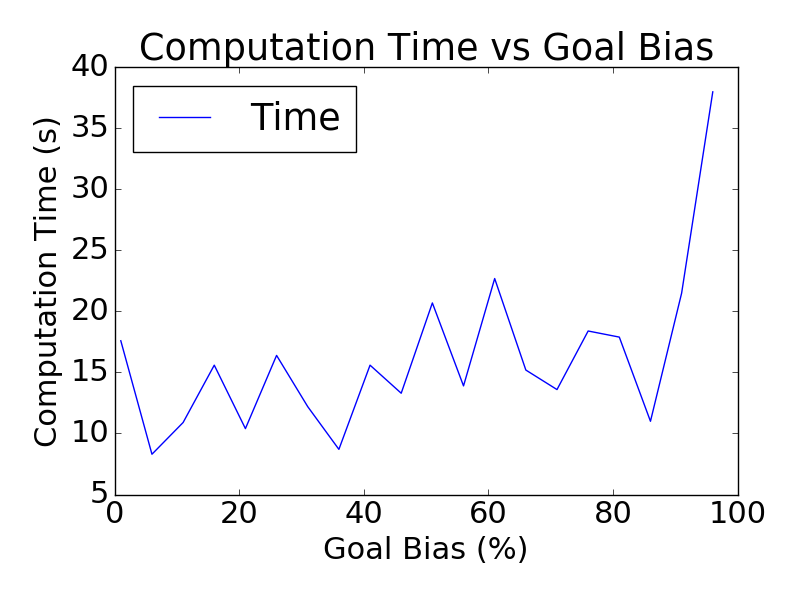
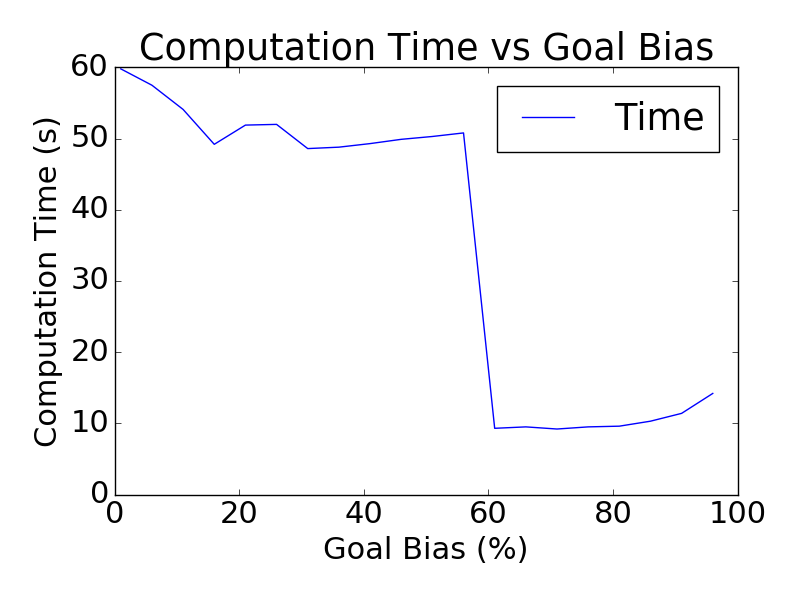
Added birrt template

diff --git a/homework/hw3/HW3.py b/homework/hw3/HW3.py
@@ -135,19 +135,19 @@ if __name__ == "__main__":
         ###############################
         # Test for various single test
         ###############################
-        RRTConnect.SendCommand('resettree')
-        RRTConnect.SendCommand('setgoalbias ' + str(GOAL_BIAS_VAL))
-        result = RRTConnect.SendCommand('run')
+        # RRTConnect.SendCommand('resettree')
+        # RRTConnect.SendCommand('setgoalbias ' + str(GOAL_BIAS_VAL))
+        # result = RRTConnect.SendCommand('run')
 
-        data    = [double(val) for val in result.split()]
-        times   = np.append(times, [[data[0]]], axis=0)
-        nodes   = np.append(nodes, [[data[1]]], axis=0)
-        samples = np.append(samples, [[data[2]]], axis=0)
-        goalBL  = np.append(goalBL, [[GOAL_BIAS_VAL]], axis=0)
-        pathL   = np.append(pathL, [[data[3]]], axis=0)
-        smooth  = np.append(smooth, [[smoothing]], axis=0)
-        smoothT = np.append(smoothT, [[data[4]]], axis=0)
-        nspathl = np.append(nspathl, [[data[5]]], axis=0)
+        # data    = [double(val) for val in result.split()]
+        # times   = np.append(times, [[data[0]]], axis=0)
+        # nodes   = np.append(nodes, [[data[1]]], axis=0)
+        # samples = np.append(samples, [[data[2]]], axis=0)
+        # goalBL  = np.append(goalBL, [[GOAL_BIAS_VAL]], axis=0)
+        # pathL   = np.append(pathL, [[data[3]]], axis=0)
+        # smooth  = np.append(smooth, [[smoothing]], axis=0)
+        # smoothT = np.append(smoothT, [[data[4]]], axis=0)
+        # nspathl = np.append(nspathl, [[data[5]]], axis=0)
 
 
         ###############################
@@ -169,54 +169,54 @@ if __name__ == "__main__":
         # Test for various goal biasing
         ###############################
 
-        # goalbias = 1;
-        # numLoops = 10;
-        # while goalbias < 100:
+        goalbias = 1;
+        numLoops = 10;
+        while goalbias < 100:
             
-        #     print "\n\n================================="
-        #     print "===== Evaluating Goal Bias %d =====" % goalbias
+            print "\n\n================================="
+            print "===== Evaluating Goal Bias %d =====" % goalbias
 
-        #     times_avg    = np.empty(shape=[0,1])
-        #     samples_avg  = np.empty(shape=[0,1])
-        #     nodes_avg    = np.empty(shape=[0,1])
+            times_avg    = np.empty(shape=[0,1])
+            samples_avg  = np.empty(shape=[0,1])
+            nodes_avg    = np.empty(shape=[0,1])
 
-        #     for i in xrange(0,numLoops):
-        #         RRTConnect.SendCommand('resettree')
-        #         RRTConnect.SendCommand('setgoalbias ' + str(goalbias))
-        #         result = RRTConnect.SendCommand('run')
+            for i in xrange(0,numLoops):
+                RRTConnect.SendCommand('resettree')
+                RRTConnect.SendCommand('setgoalbias ' + str(goalbias))
+                result = RRTConnect.SendCommand('run')
 
-        #         data = [double(val) for val in result.split()]
-        #         times_avg   = np.append(times_avg, [[data[0]]], axis=0)
-        #         nodes_avg   = np.append(nodes_avg, [[data[1]]], axis=0)
-        #         samples_avg = np.append(samples_avg, [[data[2]]], axis=0)
+                data = [double(val) for val in result.split()]
+                times_avg   = np.append(times_avg, [[data[0]]], axis=0)
+                nodes_avg   = np.append(nodes_avg, [[data[1]]], axis=0)
+                samples_avg = np.append(samples_avg, [[data[2]]], axis=0)
             
-        #     times = np.append(times, [[np.average(times_avg)]], axis=0)
-        #     nodes = np.append(nodes, [[np.average(nodes_avg)]], axis=0)
-        #     samples = np.append(samples, [[np.average(samples_avg)]], axis=0)
-        #     goalBL = np.append(goalBL, [[goalbias]], axis=0)
+            times = np.append(times, [[np.average(times_avg)]], axis=0)
+            nodes = np.append(nodes, [[np.average(nodes_avg)]], axis=0)
+            samples = np.append(samples, [[np.average(samples_avg)]], axis=0)
+            goalBL = np.append(goalBL, [[goalbias]], axis=0)
 
-        #     goalbias = goalbias + 5
+            goalbias = goalbias + 5
 
         ###############################
         # Test for smoothing
         ###############################
         # Todo: Also fix srand in rrtconnect.cpp
-        while smoothing < 300:
-            RRTConnect.SendCommand('resettree')
-            RRTConnect.SendCommand('setsmoothiteration ' + str(smoothing))
-            result = RRTConnect.SendCommand('run')
+        # while smoothing < 300:
+        #     RRTConnect.SendCommand('resettree')
+        #     RRTConnect.SendCommand('setsmoothiteration ' + str(smoothing))
+        #     result = RRTConnect.SendCommand('run')
 
-            data    = [double(val) for val in result.split()]
-            times   = np.append(times, [[data[0]]], axis=0)
-            nodes   = np.append(nodes, [[data[1]]], axis=0)
-            samples = np.append(samples, [[data[2]]], axis=0)
-            goalBL  = np.append(goalBL, [[GOAL_BIAS_VAL]], axis=0)
-            pathL   = np.append(pathL, [[data[3]]], axis=0)
-            smooth  = np.append(smooth, [[smoothing]], axis=0)
-            smoothT = np.append(smoothT, [[data[4]]], axis=0)
-            nspathl = np.append(nspathl, [[data[5]]], axis=0)
+        #     data    = [double(val) for val in result.split()]
+        #     times   = np.append(times, [[data[0]]], axis=0)
+        #     nodes   = np.append(nodes, [[data[1]]], axis=0)
+        #     samples = np.append(samples, [[data[2]]], axis=0)
+        #     goalBL  = np.append(goalBL, [[GOAL_BIAS_VAL]], axis=0)
+        #     pathL   = np.append(pathL, [[data[3]]], axis=0)
+        #     smooth  = np.append(smooth, [[smoothing]], axis=0)
+        #     smoothT = np.append(smoothT, [[data[4]]], axis=0)
+        #     nspathl = np.append(nspathl, [[data[5]]], axis=0)
             
-            smoothing = smoothing + 20
+        #     smoothing = smoothing + 20
 
         ###############################
         # Data collection for HW Pt 5

diff --git a/homework/hw3/hw3_birrt.py b/homework/hw3/hw3_birrt.py
@@ -1,0 +1,69 @@
+#!/usr/bin/env python
+# -*- coding: utf-8 -*-
+#HW3 for EECS 598 Motion Planning
+import time
+import openravepy
+
+#### YOUR IMPORTS GO HERE ####
+
+#### END OF YOUR IMPORTS ####
+
+if not __openravepy_build_doc__:
+    from openravepy import *
+    from numpy import *
+
+def waitrobot(robot):
+    """busy wait for robot completion"""
+    while not robot.GetController().IsDone():
+        time.sleep(0.01)
+
+def tuckarms(env,robot):
+    with env:
+        jointnames = ['l_shoulder_lift_joint','l_elbow_flex_joint','l_wrist_flex_joint','r_shoulder_lift_joint','r_elbow_flex_joint','r_wrist_flex_joint']
+        robot.SetActiveDOFs([robot.GetJoint(name).GetDOFIndex() for name in jointnames])
+        robot.SetActiveDOFValues([1.29023451,-2.32099996,-0.69800004,1.27843491,-2.32100002,-0.69799996]);        
+        robot.GetController().SetDesired(robot.GetDOFValues());
+    waitrobot(robot)
+
+if __name__ == "__main__":
+
+    env = Environment()
+    env.SetViewer('qtcoin')
+    collisionChecker = RaveCreateCollisionChecker(env,'ode')
+    env.SetCollisionChecker(collisionChecker)
+
+    env.Reset()        
+    # load a scene from ProjectRoom environment XML file
+    env.Load('hw3.env.xml')
+    time.sleep(0.1)
+
+    # 1) get the 1st robot that is inside the loaded scene
+    # 2) assign it to the variable named 'robot'
+    robot = env.GetRobots()[0]
+
+    ### INITIALIZE YOUR PLUGIN HERE ###
+
+    ### END INITIALIZING YOUR PLUGIN ###
+   
+
+    # tuck in the PR2's arms for driving
+    tuckarms(env,robot);
+  
+    #set start config
+    jointnames =['l_shoulder_pan_joint','l_shoulder_lift_joint','l_elbow_flex_joint','l_upper_arm_roll_joint','l_forearm_roll_joint','l_wrist_flex_joint','l_wrist_roll_joint']
+    robot.SetActiveDOFs([robot.GetJoint(name).GetDOFIndex() for name in jointnames])      
+    startconfig = [-0.15,0.075,-1.008,0,0,-0.11,0]
+    robot.SetActiveDOFValues(startconfig);
+    robot.GetController().SetDesired(robot.GetDOFValues());
+    waitrobot(robot)
+
+    with env:
+        goalconfig = [0.449,-0.201,-0.151,0,0,-0.11,0]
+        ### YOUR CODE HERE ###
+        ###call your plugin to plan, draw, and execute a path from the current configuration of the left arm to the goalconfig
+ 
+        ### END OF YOUR CODE ###
+    waitrobot(robot)
+
+    raw_input("Press enter to exit...")
+

diff --git a/homework/hw3/makeplots.py b/homework/hw3/makeplots.py
@@ -7,28 +7,28 @@ plt.rcParams.update({'font.size': 22})
 
 # Read data from file
 # FILENAME = 'compTimevsGoal.txt'
-FILENAME = 'smoothItervsPathLen.txt'
+FILENAME = 'compTimevsGoalStep05.txt'
 
 data = np.loadtxt(FILENAME, delimiter=',')
 
 # Plot for number of smoothing iterations vs path length
-plt.plot(data[4,0:], data[5,0:], label='Path Length')
-plt.xlabel('Smoothing Iterations')
-plt.ylabel('Path Length')
-plt.title('Smoothing Attemps vs Path Length')
+# plt.plot(data[4,0:], data[5,0:], label='Path Length')
+# plt.xlabel('Smoothing Iterations')
+# plt.ylabel('Path Length')
+# plt.title('Smoothing Attemps vs Path Length')
 
 # Plot for goal bias vs computation time
-# plt.plot(data[0,0:], data[1,0:], label='Time')
-# plt.xlabel('Goal Bias (%)')
-# plt.ylabel('Computation Time (s)')
-# plt.title('Computation Time vs Goal Bias')
+plt.plot(data[0,0:], data[1,0:], label='Time')
+plt.xlabel('Goal Bias (%)')
+plt.ylabel('Computation Time (s)')
+plt.title('Computation Time vs Goal Bias')
 
 plt.legend(loc='best')
 axes = plt.gca()
 plt.tight_layout()
 
-plt.savefig('smoothIterVsPathLen.png')
-# plt.savefig('compTimevsGoal.png')
+# plt.savefig('smoothIterVsPathLen.png')
+plt.savefig('compTimevsGoal.png')
 
 # Show the plot
 plt.show()

diff --git a/homework/hw3/rrtconnect/rrtconnect.cpp b/homework/hw3/rrtconnect/rrtconnect.cpp
@@ -325,8 +325,8 @@ RRTConnect::RRTConnect(EnvironmentBasePtr penv, std::istream& ss)
     tree.reserve(RESERVE_CAPACITY);
 
     // For testing so seed generated is the same
-    srand(313);
-    gen.seed(313);
+    // srand(313);
+    // gen.seed(313);
 
     // srand(time(NULL));
     // gen.seed(rd());
@@ -456,8 +456,8 @@ bool RRTConnect::resetTree(std::ostream& sout, std::istream& sinput)
     // Clear any existing points in environment
     ghandle.clear();
 
-    srand(313);
-    gen.seed(313);
+    // srand(313);
+    // gen.seed(313);
 
     return true;
 }
